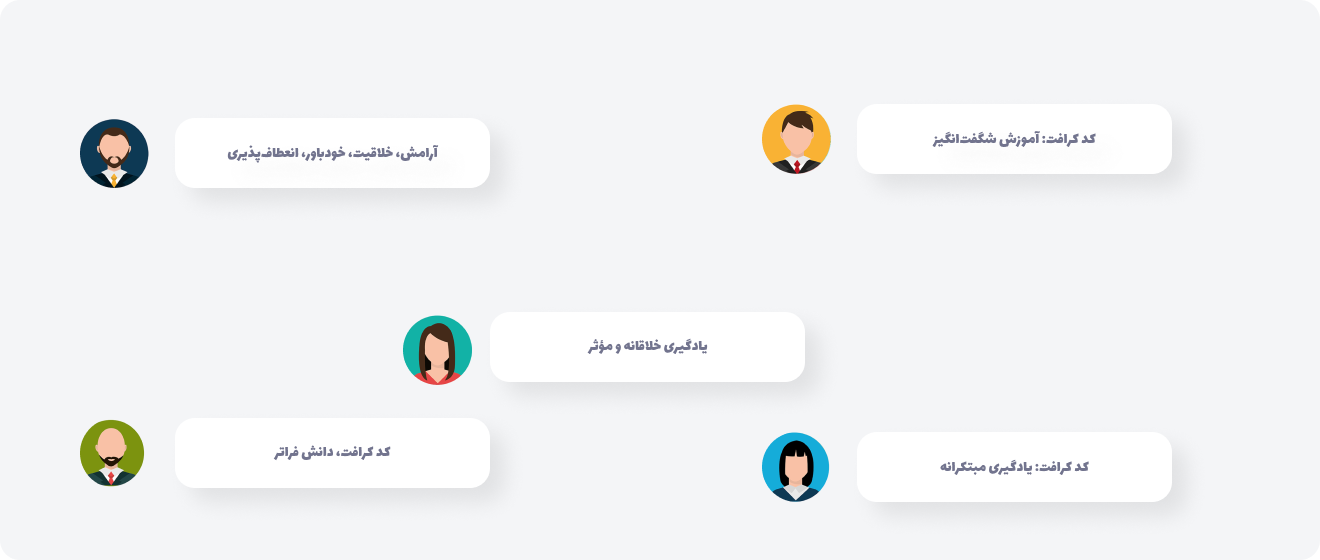
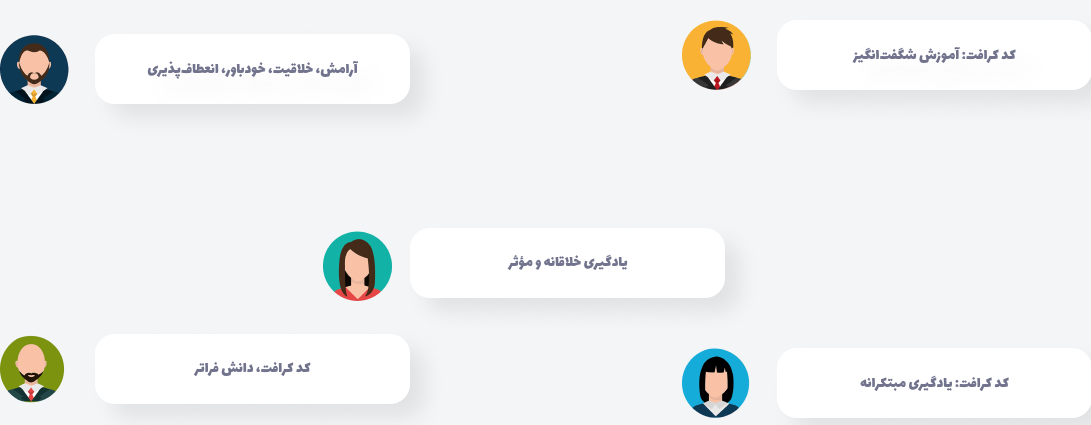
start work

diff --git a/start work/index.html b/start work/index.html
@@ -18,14 +18,21 @@
                 
             </div>
             <div class="col-left">
-                <img src="assets/down.svg" alt="open" class="open">
-                <a href="#">...برو به</a>
-                <img src="assets/down.svg" alt="open" class="open">
-                <a href="#">دوره ها</a>
-                <a href="#">تماس باما</a>
-                <a href="#">درباره ما</a>
-                <a href="#">خانه</a>
+                <img src="assets/down.svg" alt="open" class="open hide-mobile">
+                <a href="#" class="hide-mobile">...برو به</a>
+                <img src="assets/down.svg" alt="open" class="open hide-mobile">
+                <a href="#" class="hide-mobile">دوره ها</a>
+                <a href="#" class="hide-mobile">تماس باما</a>
+                <a href="#" class="hide-mobile">درباره ما</a>
+                <a href="#" class="hide-mobile">خانه</a>
                 <img src="assets/logo.png" alt="logo" class="logo">
+                <a href="#" class="hide-tablet">
+                    <svg width="41" height="20" viewBox="0 0 41 20" fill="none" xmlns="http://www.w3.org/2000/svg">
+                        <path d="M38 3H3" stroke="#72748E" stroke-width="5" stroke-linecap="round"/>
+                        <path d="M38.0001 10H15.2974" stroke="#72748E" stroke-width="5" stroke-linecap="round"/>
+                        <path d="M38.0001 17H24.7568" stroke="#72748E" stroke-width="5" stroke-linecap="round"/>
+                    </svg>                        
+                </a>
             </div>
         </nav>
     </header>
@@ -59,33 +66,33 @@
         <div class="row3">
             <img src="assets/Money motivation-bro.png" alt="money">
             <div class="text">
-                <h1>مسابقه بده و جایزه ببر</h1>
+                <h3>مسابقه بده و جایزه ببر</h3>
                 <p>شما را به مسابقات هیجانانگیز وبسایت کدکرافت دعوت میکنیم! با شرکت در این مسابقات، فرصتی را برای ارتقاء دانش خود داشته باشید و به جوایز ارزشمندی دست یابید. همین حالا ثبتنام کنید و به چالش بپیوندید.</p>
                 <button class="row3-btn">شروع کنید</button>
             </div>
         </div>
         <div class="row4">
+            <img src="assets/Exams-bro.png" alt="deqqat">
             <div class="text">
-                <h1>با برنامه و دقیق برو جلو</h1>
+                <h3>با برنامه و دقیق برو جلو</h3>
                 <p>کد کرافت، جادوگر یادگیری بچههاست! وبسایت اموزشی جامع کد کرافت با برنامهریزی دقیق، دنیایی از دانش را به نوجوانان ارائه میدهد. با محتوای گوناگون و روشهای تدریس مبتکرانه، یادگیری لذتبخش و مؤثر را تجربه کنید.</p>
                 <button class="row3-btn">شروع کنید</button>
             </div>
-            <img src="assets/Exams-bro.png" alt="deqqat">
         </div>
         <div class="row3">
             <img src="assets/Pull request-bro.png" alt="support">
             <div class="text">
-                <h1>پشتیبانی آنلاین</h1>
+                <h3>پشتیبانی آنلاین</h3>
                 <p>همیشه در کنار شما هستیم! با پشتیبانی آنلاین کد کرافت، در هر مرحله از یادگیری خود حمایت شده و راهنمایی میشوید. بهترین دوست یادگیری شما، تیم پشتیبانی ماست.  هماکنون با اطمینان پیش بروید</p>
                 <button class="row3-btn">شروع کنید</button>
             </div>
         </div>
         <div class="comment">
-            <h2>نظرات کاربران</h2>
+            <h3>نظرات کاربران</h3>
             <img src="assets/User comments form.png" alt="User Comments">
         </div>
         <div class="animation">
-            <h2>یادگیری همراه با انیمیشن</h2>
+            <h3>یادگیری همراه با انیمیشن</h3>
             <div class="box">
                 <div class="texts">
                     <a href="#">ریاضی</a>
@@ -101,17 +108,17 @@
             </div>
         </div>
     </div>
-    <div class="my">
+    <div class="footer">
         <div class="columns">
             <div class="left-col">
-                <img src="assets/logo.png" alt="logo" class="logo">
+                <img src="assets/logo.png" alt="logo" class="logo hide-mobile">
                 <div class="connection-ways">
                     <img src="assets/instagram.svg" alt="instagram">
                     <img src="assets/telegram.svg" alt="telegram">
                     <img src="assets/youtube.svg" alt="youtube">
                 </div>
             </div>
-            <div class="right-col">
+            <div class="right-col hide-mobile">
                     <a href="#">درباره ما</a>
                     <a href="#">تماس با ما</a>
                 <div class="go-to">

diff --git a/start work/style.css b/start work/style.css
@@ -9,15 +9,15 @@ body{
 
 /* header */
 
+header {
+    width: 100%;
+}
+
 .col-left{
     display: flex;
     gap: 2.125em;
     font-size: 16px;
     align-items: center;
-}
-
-.col-right {
-    margin-right: 20.75em;
 }
 
 .search{
@@ -47,7 +47,6 @@ nav a {
 
 .user {
     width: 258px;
-    margin-left: 34px;
 }
 
 .log {
@@ -125,25 +124,38 @@ align-items: center;*/
     gap: 45px;
 }
 .row2 a{
-    width: 188px;
+    display: flex;
+    width: 196px;
+    height: 21px;
+    flex-direction: column;
+    justify-content: center;
+    flex-shrink: 0;
+    color: #72748E;
     text-align: center;
+    /* Normal text */
+    font-size: 16px;
+    font-style: normal;
+    font-weight: 400;
+    line-height: normal;
 }
 
 .Math, .teacher, .developer, .development{
     display: flex;
-    width: 188px;
-    height: 186px;
+    align-items: center;
+    justify-content: center;
+    width: 170px;
+    height: 168px;
     flex-direction: column;
     background-color: #fff;
-    padding: 31px 31px 42px;
+    padding: 76px 76px 76px;
     box-shadow: 7px 7px 14px rgba(0, 0, 0, .3);
     border-radius: 20px;
-
+    gap: 20px;
 }
 
 .row2 img {
-    width: 182px;
-    height: 160px;
+    width: 220px;
+    height: 200px;
 }
 
 /* row3 */
@@ -180,6 +192,7 @@ align-items: center;*/
 .row4 {
     display: flex;
     /* margin-left: 7em; */
+    flex-direction: row-reverse;
 }
 
 .row4 img{
@@ -198,6 +211,7 @@ align-items: center;*/
     font-style: normal;
     font-weight: 400;
     line-height: normal;
+    overflow: hidden;
 }
 
 /* row7 - Learn With Animation */
@@ -255,7 +269,7 @@ align-items: center;*/
 
 /* Footer */
 
-.my {
+.footer {
     background: url(assets/footer.png);
     background-size: cover;
 }
@@ -293,8 +307,82 @@ align-items: center;*/
     color: #72748E;
 }
 
-/* Media Quarry tablet */
-
-@media only screen and (min-width: 768px) and (max-width: 1023px) {
-    /* Tomorrow */
+a {
+    text-decoration: none;
 }
+
+/* Media Query - Mobile */
+
+@media only screen and (max-width: 480px) {
+    .hide-mobile{
+        display: none;
+    }
+    .col-left{
+        gap: 12px;
+    }
+    .search{
+        margin-left: 36px;
+    }
+    .user {
+        width: 232px;
+    }
+    .row1, .row3, .row4{
+        display: flex;
+        flex-direction: column;
+        justify-content: center;
+        margin-bottom: 10px;
+    }
+    .row1 img, .row3 img, .row4 img, .box img{
+        width: 410px;
+        height: 378px;
+    }
+    .row1 p, .row3 p, .row4 p{
+        height: 80px;
+        width: 410px;
+    }
+    .text, .text p, .text h1{
+        text-align: center;
+    }
+    nav {
+        margin-bottom: 75px;
+    }
+    .row2 {
+        flex-direction: column;
+    }
+    .texts{
+        width: 250px;
+        margin-bottom: 500px;
+    }
+    .footer{
+        background: url(assets/back-ground-with-mobile.png);
+        width: 300px;
+        height: 75px;
+    }
+
+    .left-col{
+        display: flex;
+        justify-content: center;
+        width: 300px;
+        height: 75px;
+        margin: 0;
+    }
+
+    .columns{
+        width: 300px;
+        height: 75px;
+        margin: 0;
+    }
+
+    .connection-ways{
+        margin-top: 50px;
+    }
+    .comment img{
+        width: 368px;
+        height: 152px;
+    }
+    
+    h3 {
+        font-size: 30px;
+    }
+}
+
